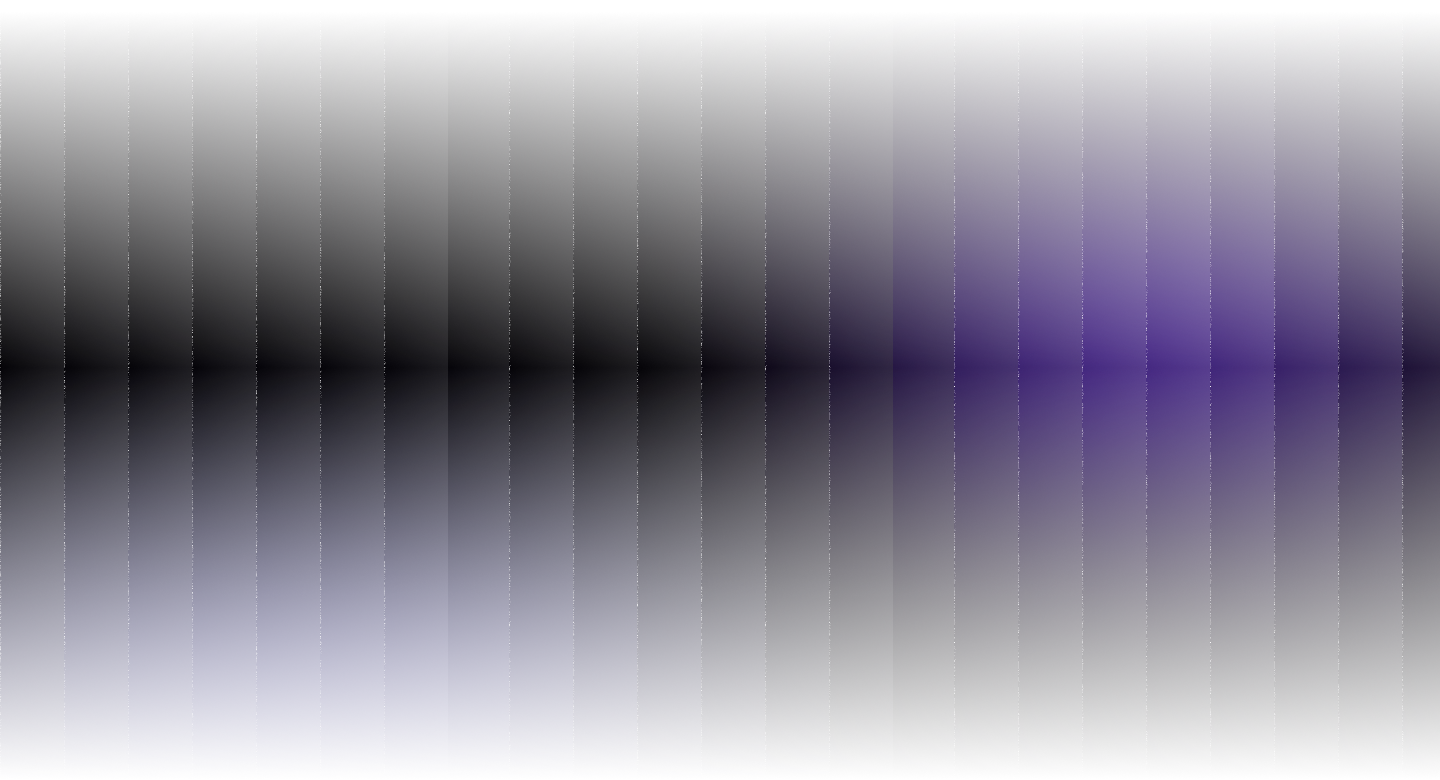
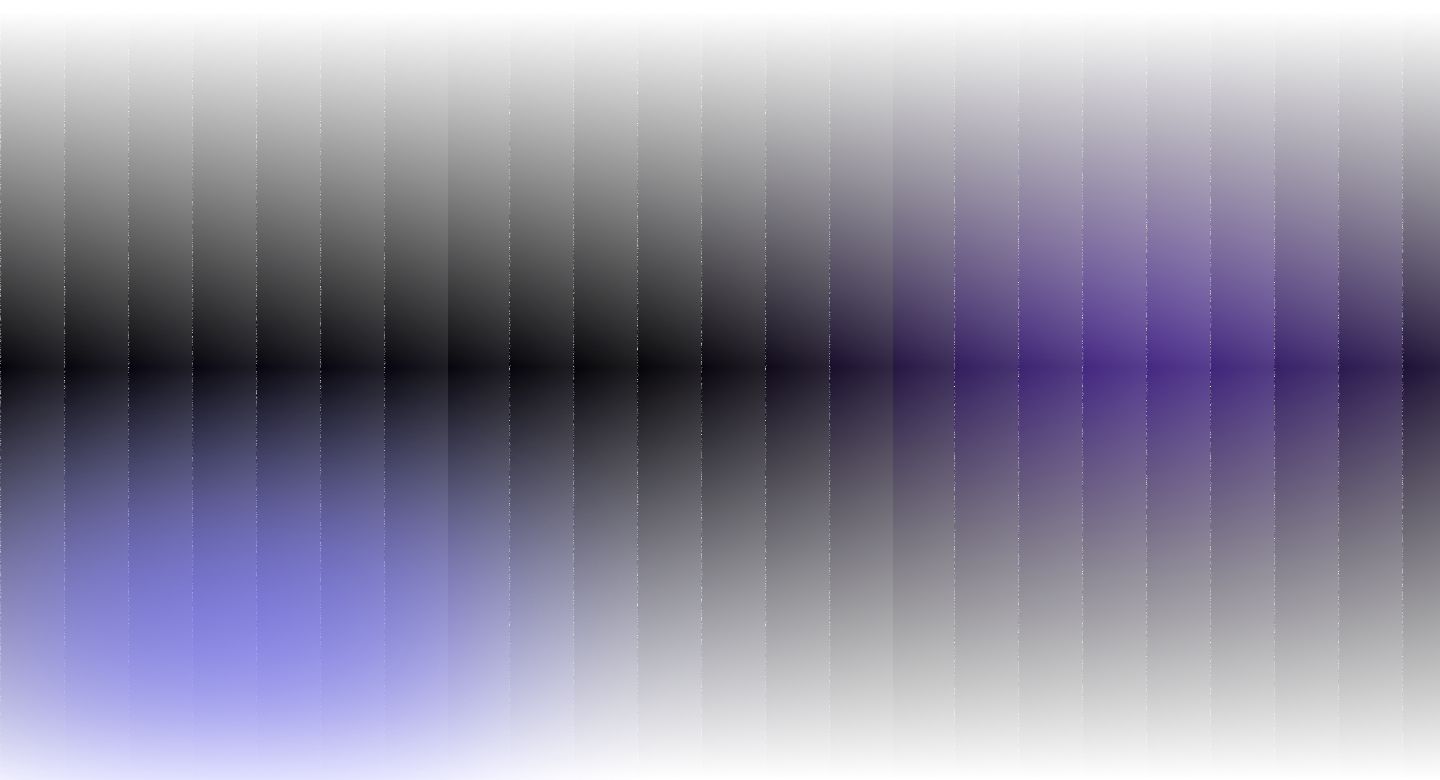
06-02

Changed region(s): [[0.0, 0.5538, 0.3438, 1.0]]

diff --git a/src/assets/sass/Home.scss b/src/assets/sass/Home.scss
@@ -65,19 +65,25 @@ p{
 }
 }
   }
-}
-.ideas-into-digital:before{
+
+  .container  {
+position: relative;
+  }
+  .container:before{
   background-image: url('../img/bg-line-right.png');
   position: absolute;
-  top: 0;
+  top: -40%;
+  left: 0;
   content: '';
   height: 750px;
   width: 100%;
-  background-size: 85%;
+  background-size: 100%;
 background-position:top center;
 background-repeat: no-repeat;
 z-index: -1;
 }
+}
+
 
 
 .sets-us-apart{
@@ -106,27 +112,32 @@ p{
 }
 
   }
-}
-.sets-us-apart:before{
-  background-image: url('../img/bg-line-left.png');
-  position: absolute;
-  top: -10rem;
-  content: '';
-  height: 670px;
-  width: 100%;
-  background-size: 85%;
-background-position:top center;
-background-repeat: no-repeat;
-z-index: -1;
+  .container{
+    position: relative;
+  }
+  .container:before{
+    background-image: url('../img/bg-line-left.png');
+    position: absolute;
+    top: -90%;
+    left: 0;
+    content: '';
+    height: 670px;
+    width: 100%;
+    background-size: 100%;
+  background-position:top center;
+  background-repeat: no-repeat;
+  z-index: -1;
+  }
 }
 
+
 .customers-visit{
-  background-color: #060b27;
+  background-color: #0e1122;
   padding: 4rem 0;
   border-top:1px solid #8F9BB7 ;
   border-bottom:1px solid  #8F9BB7 ;
   position: relative;
-  z-index: 2;
+  z-index: 4;
   background-image: url('../img/4bg.png');
   background-position: center;
   background-size: cover;
@@ -146,7 +157,7 @@ z-index: -1;
   z-index: 2;
   background-image: url('../img/3bg.png');
   background-position: center;
-  background-size: contain;
+  background-size: cover;
   background-repeat: no-repeat;
   p{
     color: #FFFFFF;
@@ -155,22 +166,27 @@ z-index: -1;
     font-size: 63px;
     font-weight: 300;
   }
-}
-.about-us:before{
-  background-image: url('../img/bg-line-right.png');
-  position: absolute;
-  top:-180px;
-  content: '';
-  height: 750px;
-  width: 100%;
-  background-size: 85%;
-background-position:top center;
-background-repeat: no-repeat;
-z-index: -1;
+  .container{
+    position: relative;
+  }
+  .container:before{
+    background-image: url('../img/bg-line-right.png');
+    position: absolute;
+    top:-75%;
+    left: 0;
+    content: '';
+    height: 750px;
+    width: 100%;
+    background-size: 100%;
+  background-position:top center;
+  background-repeat: no-repeat;
+  z-index: -1;
+  }
+  
 }
 
-.contact-form{background-color: #060b27;
-  
+.contact-form{
+ 
 
 p{
   color: #fff;
@@ -263,22 +279,26 @@ position: relative;
 
 }
 }
-
-
+.container{
+position: relative;
 }
-
-.testimonials::before{
+.container::before{
   background-image: url('../img/bg-line-right.png');
   position: absolute;
-  top: -2rem;
+  top: -60%;
+  left: 0;
   content: '';
   height: 750px;
   width: 100%;
-  background-size: 85%;
+  background-size: 100%;
 background-position:top center;
 background-repeat: no-repeat;
 z-index: -1;
 }
+
+
+}
+
 
 @media (prefers-reduced-motion: no-preference) {
   .App-logo {

diff --git a/public/index.html b/public/index.html
@@ -6,8 +6,7 @@
     <meta name="viewport" content="width=device-width, initial-scale=1" />
     <meta name="theme-color" content="#000000" />
     <meta
-      name="description"
-      content="Web site created using create-react-app"
+      name="description" content="One stop solution for all your business needs"
     />
     <link rel="apple-touch-icon" href="%PUBLIC_URL%/logo192.png" />
     <!--
@@ -24,10 +23,10 @@
       work correctly both with client-side routing and a non-root public URL.
       Learn how to configure a non-root public URL by running `npm run build`.
     -->
-    <title>React App</title>
+    <title>DevInfinity | One stop solution for all your business needs</title>
   </head>
   <body>
-    <noscript>You need to enable JavaScript to run this app.</noscript>
+    <noscript>One stop solution for all your business needs</noscript>
     <div id="root"></div>
     <!--
       This HTML file is a template.

diff --git a/src/Home.js b/src/Home.js
@@ -16,7 +16,7 @@ function Home() {
             <Container className='text-center'>
               <h3 className='gradient-text'>One stop solution for all your business needs</h3>
               <p>Rorem ipsum dolor sit amet consectetur. Gravida convallis orci ultrices non. Ultricies tempor at ut cursus mi. Aliquam sed amet vitae orci ac penatibus consectetur.</p>
-              <a href='/' className='btn-consult'>Consult now <img src={require('./assets/img/arrow-up.png')} alt="consult"/></a>
+              <a href="https://wa.me/7042352490?text=Hi" target='_blank' className='btn-consult'>Consult now <img src={require('./assets/img/arrow-up.png')} alt="consult"/></a>
             </Container>
         </div>
         <div className='trusted-by'>

diff --git a/src/theme/Header.jsx b/src/theme/Header.jsx
@@ -56,7 +56,7 @@ function Header() {
                 
                 </Col>
                 <Col md={2} className='d-n-m'>
-                <a className="outline-light" href='#contact' >Consult now <img src={require('./../assets/img/arrow-up-white.png')} alt="consult"/></a>
+                <a className="outline-light" href="https://wa.me/7042352490?text=Hi" target='_blank' >Consult now <img src={require('./../assets/img/arrow-up-white.png')} alt="consult"/></a>
                 </Col>
             </Row>
         </Container>

diff --git a/src/assets/sass/index.scss b/src/assets/sass/index.scss
@@ -49,6 +49,13 @@ body {
   font-family: 'Satoshi-Regular';
   -webkit-font-smoothing: antialiased;
   -moz-osx-font-smoothing: grayscale;
+  background-color: #060b27 !important;
+}
+@media (min-width: 1400px) {
+
+body .container{
+  max-width: 1140px;
+}
 }
 
 *{
